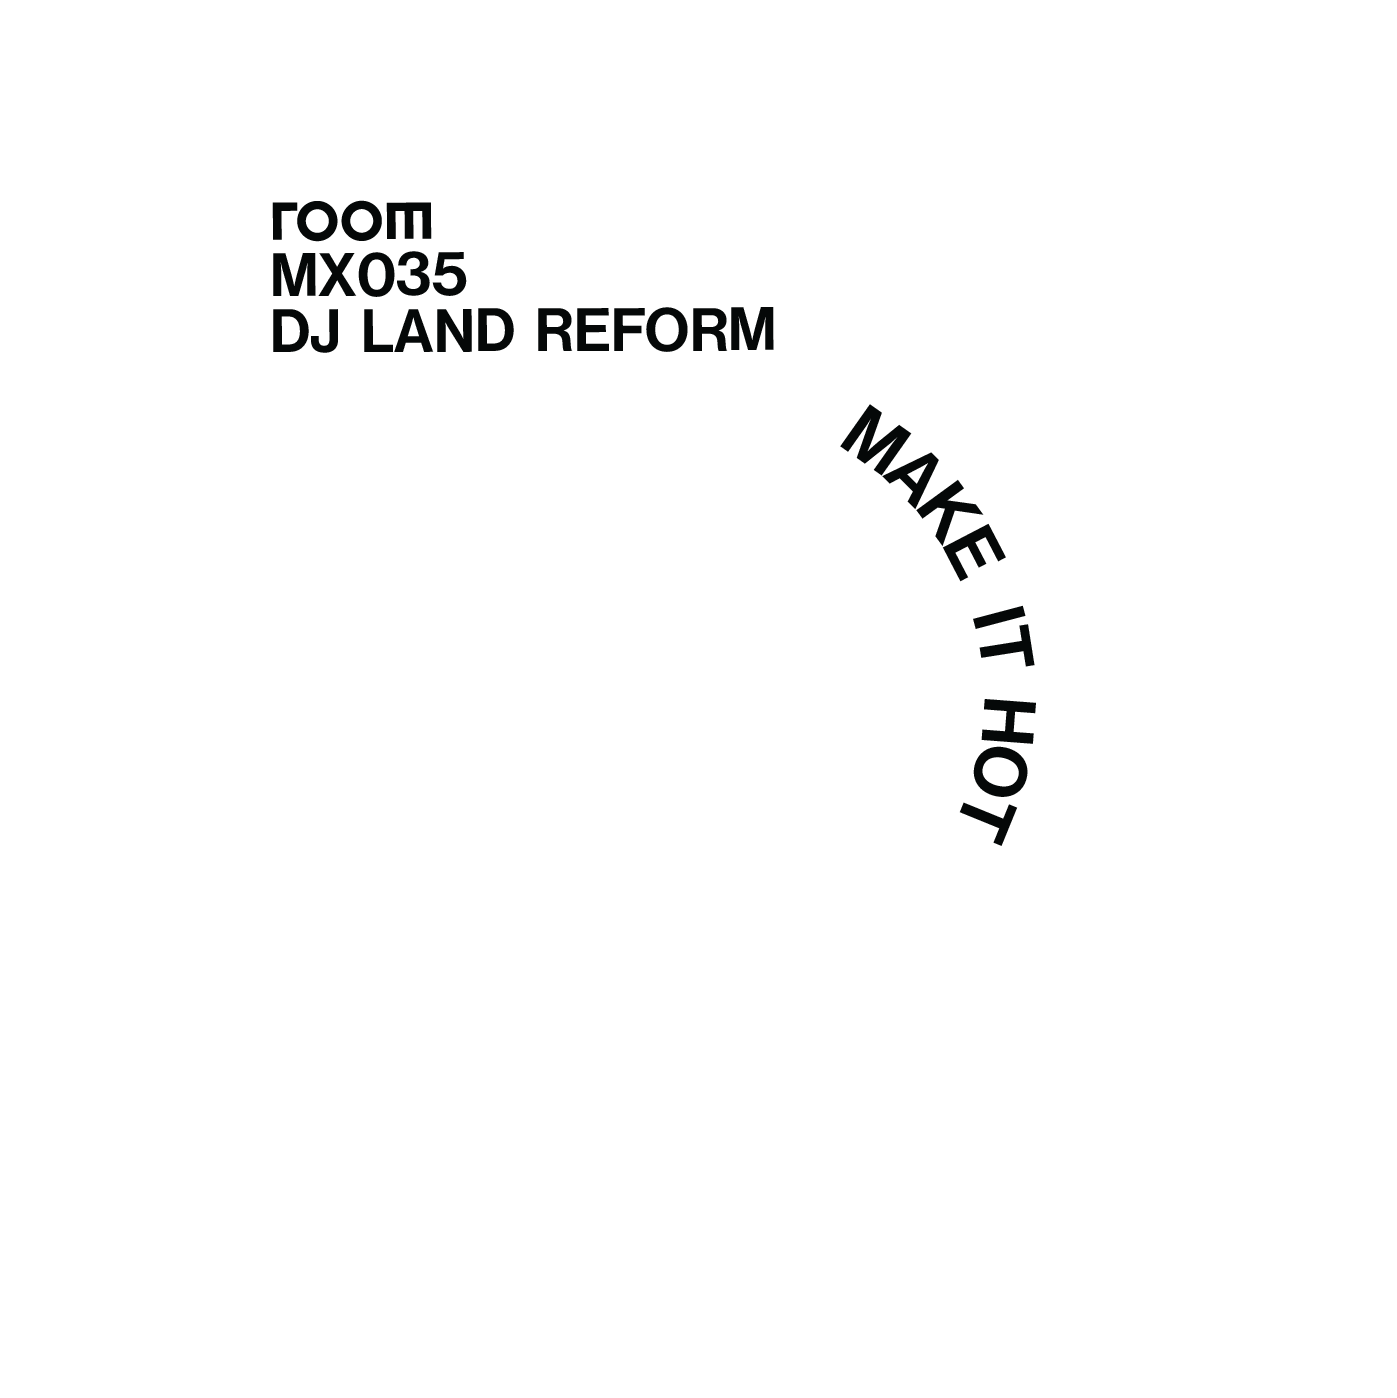
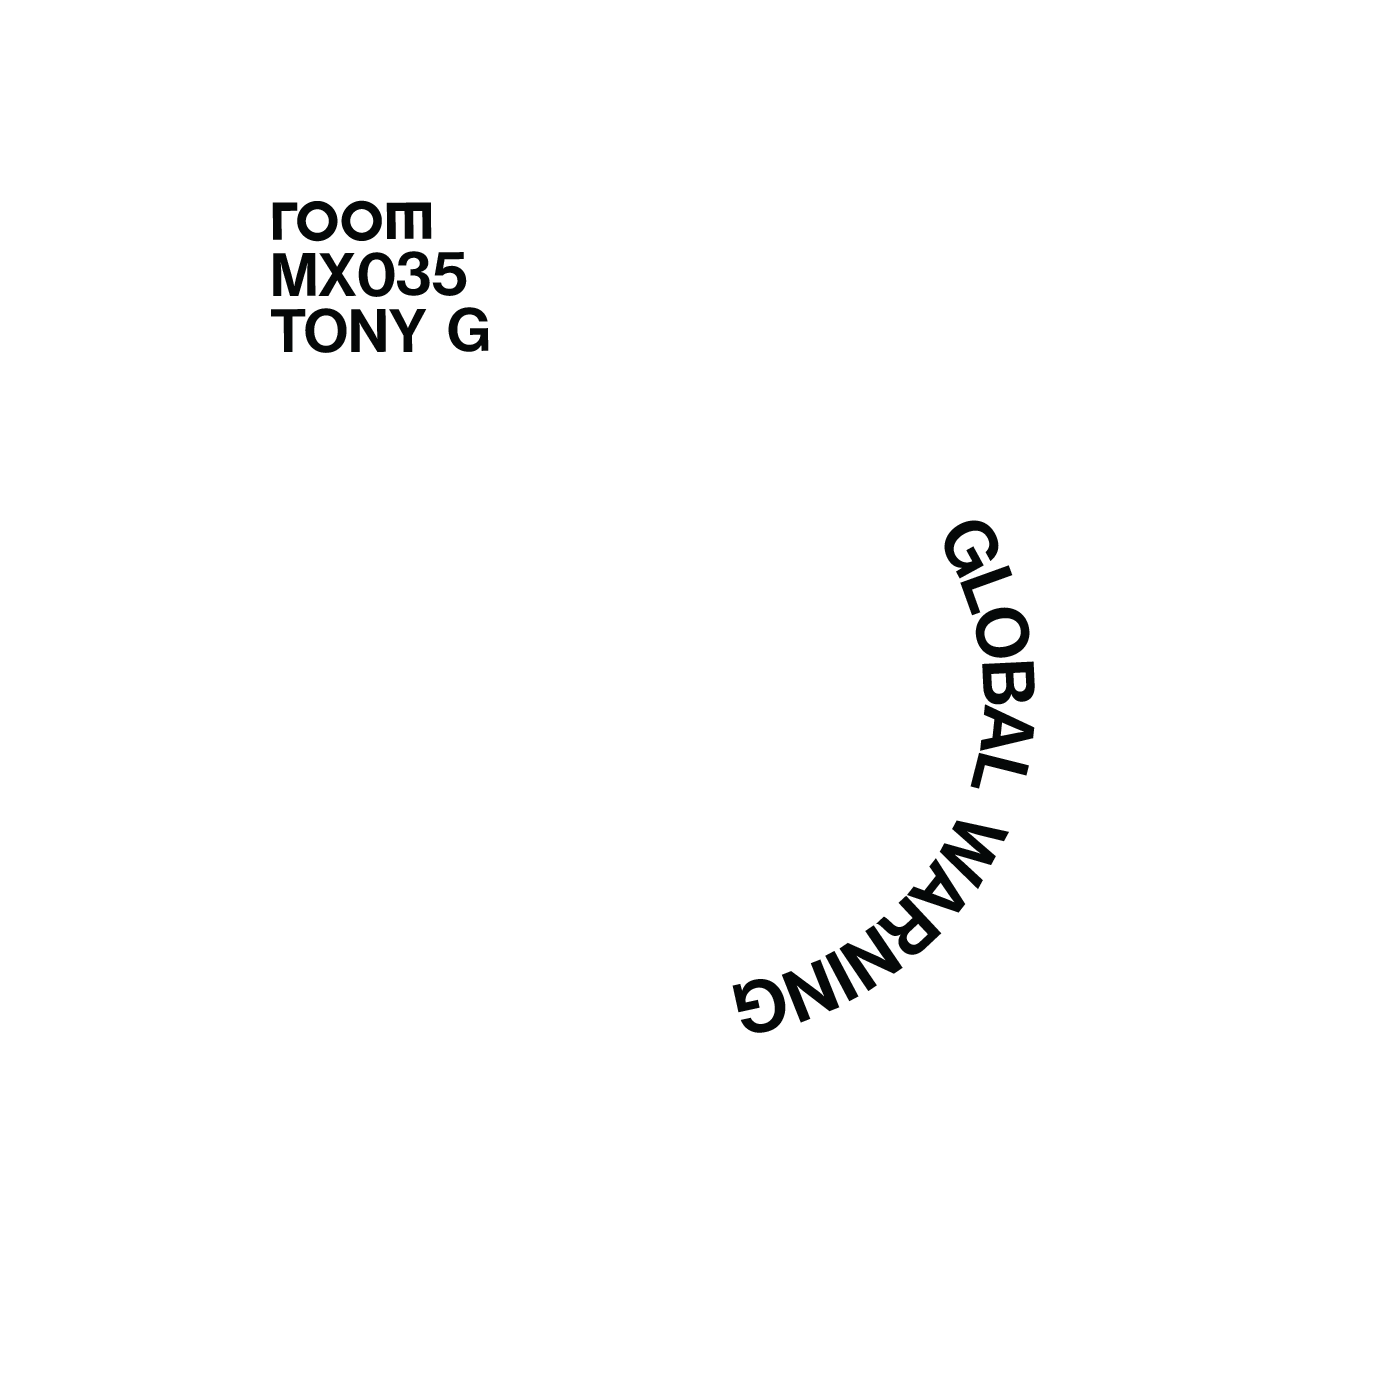
Fixed labels and uploaded more videos

Changed region(s): [[0.5233, 0.2768, 0.7387, 0.7382], [0.1847, 0.2153, 0.554, 0.2768]]

diff --git a/src/babylon/scenes/index.js b/src/babylon/scenes/index.js
@@ -10,6 +10,7 @@ import * as MX020 from './MX020';
 import * as MX021 from './MX021';
 import * as MX022 from './MX022';
 import * as MX023 from './MX023';
+import * as MX025 from './MX025';
 import * as MX029 from './MX029';
 import * as MX030 from './MX030';
 import * as MX031 from './MX031';
@@ -22,6 +23,7 @@ import * as MX037 from './MX037';
 import * as MX038 from './MX038';
 import * as MX039 from './MX039';
 import * as MX040 from './MX040';
+import * as MX041 from './MX041';
 import * as MX042 from './MX042';
 import * as MX043 from './MX043';
 import * as RM001 from './RM001';
@@ -72,6 +74,10 @@ export const mixConfigs = {
     id: 'MX023',
     ...MX023,
   },
+  MX025: {
+    id: 'MX025',
+    ...MX025,
+  },
   MX029: {
     id: 'MX029',
     ...MX029,
@@ -119,6 +125,10 @@ export const mixConfigs = {
   MX040: {
     id: 'MX040',
     ...MX040,
+  },
+  MX041: {
+    id: 'MX041',
+    ...MX041,
   },
   MX042: {
     id: 'MX042',

diff --git a/src/babylon/scenes/MX025.js b/src/babylon/scenes/MX025.js
@@ -1,7 +1,7 @@
 import React from 'react';
 import {VideoBackgroundScene, build} from './templates/VideoBackground';
-import CaseTexture from '../../images/mix-art/mx043.jpg';
-import CDLabelTexture from '../../images/mix-labels/cd_template_MX043.png';
+import CaseTexture from '../../images/mix-art/mx025.jpg';
+import CDLabelTexture from '../../images/mix-labels/cd_template_MX025.png';
 
 export const caseTexture = CaseTexture;
 export const cdLabelTexture = CDLabelTexture;
@@ -12,7 +12,7 @@ export const Background = (props) => {
   return (
     <VideoBackgroundScene
       {...props}
-      manifestUrl="https://roomhauscdnprd.blob.core.windows.net/assets/MX043/video/background.m3u8"
+      manifestUrl="https://roomhauscdnprd.blob.core.windows.net/assets/MX025/video/background.m3u8"
     />
   );
 };

diff --git a/src/babylon/scenes/MX041.js b/src/babylon/scenes/MX041.js
@@ -1,7 +1,7 @@
 import React from 'react';
 import {VideoBackgroundScene, build} from './templates/VideoBackground';
-import CaseTexture from '../../images/mix-art/mx043.jpg';
-import CDLabelTexture from '../../images/mix-labels/cd_template_MX043.png';
+import CaseTexture from '../../images/mix-art/mx041.jpg';
+import CDLabelTexture from '../../images/mix-labels/cd_template_MX041.png';
 
 export const caseTexture = CaseTexture;
 export const cdLabelTexture = CDLabelTexture;
@@ -12,7 +12,7 @@ export const Background = (props) => {
   return (
     <VideoBackgroundScene
       {...props}
-      manifestUrl="https://roomhauscdnprd.blob.core.windows.net/assets/MX043/video/background.m3u8"
+      manifestUrl="https://roomhauscdnprd.blob.core.windows.net/assets/MX041/video/background.m3u8"
     />
   );
 };

diff --git a/src/images/mix-labels/index.js b/src/images/mix-labels/index.js
@@ -40,3 +40,5 @@ export {default as MX039} from './cd_template_MX039.png';
 export {default as MX040} from './cd_template_MX040.png';
 export {default as MX041} from './cd_template_MX041.png';
 export {default as MX042} from './cd_template_MX042.png';
+export {default as MX043} from './cd_template_MX043.png';
+export {default as MX044} from './cd_template_MX044.png';
